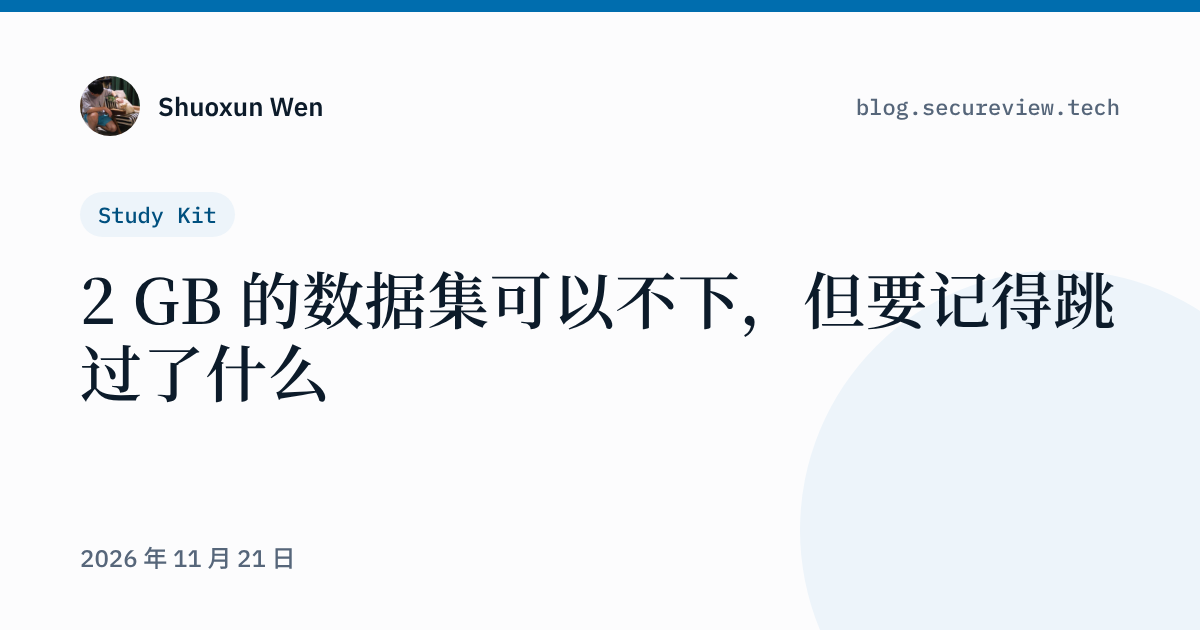
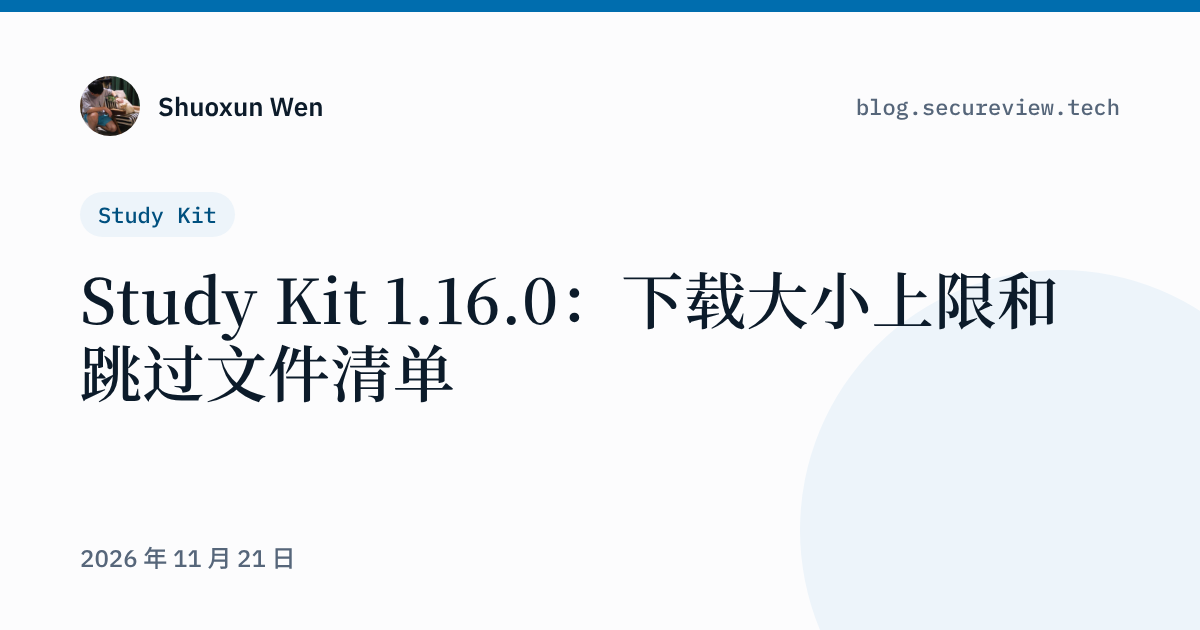
Post: plainer title and wording

Changed region(s): [[0.0617, 0.4222, 0.925, 0.6333]]

diff --git a/_posts/2026-11-21-study-kit-download-choices.md b/_posts/2026-11-21-study-kit-download-choices.md
@@ -2,38 +2,44 @@
 layout: post
 date: 2026-11-21 11:45:00 +0800
 project: Study Kit
-description: "Study Kit 1.16.0 lets you cap file size, leave out kinds of files and skip videos, then shows what it skipped so you can get any of it back with one command."
+description: "Study Kit 1.16.0 adds a file size limit and file type filters. Skipped files can be listed and downloaded with monash skipped."
 ref: study-kit-download-choices
 lang: en
 source_repo: monash-study-kit
 source_checked: 2026-11-21
-title: "Skip the 2 GB dataset, but keep a list of what you skipped"
+title: "Study Kit 1.16.0: download size limit and skipped files list"
 tags: [Python, Moodle, CLI, MCP]
 image: /assets/og/study-kit-download-choices.png
 ---
 
-[Study Kit](https://github.com/Waldo0926/monash-study-kit) copies every file your units put on Moodle to your computer, so your AI app can search and read them. Videos were already left out by default. Everything else came down, including the odd 2 GB dataset or a zip of last year's recordings.
+[Study Kit](https://github.com/Waldo0926/monash-study-kit) syncs your units' Moodle files to your computer so your AI app can search and read them.
 
-The Chrome extension [Monash Moodle Downloader](https://github.com/Zetanegative1/Monash-Moodle-Downloader), added a size limit and type filters in 4.7.0. That made me look at what Study Kit was missing.
+Before this release only videos were skipped by default. Everything else was downloaded, including datasets or zipped recordings of a few GB in some units.
 
-## Choosing what gets downloaded
+The Chrome extension [Monash Moodle Downloader](https://github.com/Zetanegative1/Monash-Moodle-Downloader) added a size limit and type filters in 4.7.0, and I added the same to Study Kit.
 
-1.16.0 adds two settings next to `download_videos`:
+## New settings
 
-- `max_file_mb`, 300 by default. Bigger files become a link with their size
-- `skip_types`, for whole kinds of files: `pdf`, `slides`, `docs`, `sheets`, `archives`, `images`, `audio`, `code`
+Two settings next to `download_videos`:
 
-For one sync only, `monash sync --videos`, `--max-mb 50` or `--skip-types archives` change them without touching your settings.
+- `max_file_mb`: 300 by default. Larger files are saved as a link with their size
+- `skip_types`: kinds of files not to download: `pdf`, `slides`, `docs`, `sheets`, `archives`, `images`, `audio`, `code`
 
-Moodle addresses often say nothing about the file. A resource is `view.php?id=…`, and the real file can sit behind a CloudFront link with no extension. So the check runs on the response headers, before anything is written: the real name from `Content-Disposition`, the type from `Content-Type`, the size from `Content-Length`. If the server sends no length, the download counts bytes and stops at the limit, and the partial file is removed.
+For one sync only, use `monash sync --videos`, `--max-mb 50` or `--skip-types archives`. Settings are not changed.
 
-The same rules now apply inside Moodle folders, which come down as one zip. That fixed an old bug: videos inside a folder zip were extracted even with `download_videos` off.
+Moodle addresses often don't show the file type. A resource is `view.php?id=…`, and the actual file can be a CloudFront link with no extension.
 
-## Skipping is only half of it
+So the check happens after the response headers arrive and before anything is written: the name from `Content-Disposition`, the type from `Content-Type`, the size from `Content-Length`.
 
-A limit is only useful if you can see what it caught. Otherwise you find out the night before the exam that the dataset for the assignment never came down.
+If the server sends no size, the download counts bytes, stops at the limit and deletes the partial file.
 
-So every skip goes into a table, and `monash sync` names the files it skipped for the first time. `monash skipped` lists all of them:
+Moodle folders are downloaded as one zip, and the files inside now follow the same rules. This also fixed an old bug: videos inside a folder zip were extracted even with `download_videos` off.
+
+## Listing and downloading skipped files
+
+Skipped files are stored in a table in the database. At the end of `monash sync` it lists the files skipped for the first time.
+
+`monash skipped` lists all of them:
 
 ```text
 FIT2109
@@ -41,25 +47,25 @@ FIT2109
   [7] Week 09/Project data/raw.zip (too big, 1200 MB)
 ```
 
-(The real output is in Chinese, like the rest of the CLI.)
+The CLI prints this in Chinese; it is translated here.
 
-From there you have two ways back:
+Two ways to download them:
 
-- `monash skipped --get 3` for one or two files. It ignores the limit and checks your free disk space first
-- `monash sync --max-mb 2000` for many. Files you already have are not downloaded again, only the skipped ones are
+- A few files: `monash skipped --get 3`. It ignores the limit and checks free disk space first
+- Many files: `monash sync --max-mb 2000`. Files already downloaded are not downloaded again
 
-You can also just ask your AI app "which files weren't downloaded?" and then "get the dataset one".
+You can also ask your AI app which files were not downloaded and tell it which ones you want.
 
-The numbers are the table's row IDs. Sync updates rows in place instead of deleting and inserting them again, so the number you saw stays the same after the next background sync. That small choice is what makes `--get 3` safe to type a few minutes later.
+The numbers are the table's row IDs. Sync updates existing rows, so the numbers stay the same after a background sync.
 
-## Two bugs found on the way
+## Two fixes
 
-**Partial syncs had no lock.** The full sync takes a lock so the AI app's hourly sync and a terminal sync never run together. `monash sync FIT2109`, `monash export --sync` did not. If both ran on the same unit, one could delete the other's partly downloaded files. All of them, and the new `--get`, now share the lock and say "try again when it's done" when it's busy.
+**No lock when syncing one unit.** A full sync takes a lock so the AI app's background sync and a terminal sync don't run at the same time, but `monash sync FIT2109` and `monash export --sync` didn't. If both synced the same unit, one could delete the other's partly downloaded files. Both commands and `--get` now use the same lock and ask you to try again later if a sync is running.
 
-**Windows reserved names.** A file called `CON.pdf` or `NUL` can't be saved on Windows, so that file failed every sync. Those names now get a `_` in front.
+**Windows reserved names.** Files named `CON.pdf` or `NUL` can't be saved on Windows, so they failed on every sync. They now get a `_` in front.
 
-## What I left out
+## Not done
 
-I looked at downloading in parallel. Folders already come as one zip, and the kit keeps a 0.4 second gap between requests so Moodle never sees a burst. Parallel downloads would need locks around the cookie jar and the database for not much gain, so it stays one at a time.
+I considered parallel downloads. Folders already come as one zip, and the kit waits 0.4 seconds between requests to keep load on Moodle low. Parallel downloads would need locks around the cookie jar and the database, so files are still downloaded one at a time.
 
-Everything above is in the [changelog](https://github.com/Waldo0926/monash-study-kit/blob/main/CHANGELOG.md), and the guide is on [docs.secureview.tech](https://docs.secureview.tech/study-kit/cli/#choose-what-gets-downloaded).
+Details are in the [changelog](https://github.com/Waldo0926/monash-study-kit/blob/main/CHANGELOG.md) and the guide is on [docs.secureview.tech](https://docs.secureview.tech/study-kit/cli/#choose-what-gets-downloaded).

diff --git a/_posts/2026-11-21-study-kit-download-choices-zh.md b/_posts/2026-11-21-study-kit-download-choices-zh.md
@@ -2,44 +2,46 @@
 layout: post
 date: 2026-11-21 11:45:00 +0800
 project: Study Kit
-description: "Study Kit 1.16.0 可以设文件大小上限、整类不下、不下录像，还会列出跳过了哪些，想要的一条命令就能补回来"
+description: "Study Kit 1.16.0 可以设文件大小上限、按类型不下载，跳过的文件用 monash skipped 查看和补下"
 ref: study-kit-download-choices
 lang: zh-Hans
 source_repo: monash-study-kit
 source_checked: 2026-11-21
-title: "2 GB 的数据集可以不下，但要记得跳过了什么"
+title: "Study Kit 1.16.0：下载大小上限和跳过文件清单"
 tags: [Python, Moodle, CLI, MCP]
 image: /assets/og/study-kit-download-choices-zh.png
 ---
 
-[Study Kit](https://github.com/Waldo0926/monash-study-kit) 会把课程放在 Moodle 上的文件都同步到你电脑上，让 AI 软件能搜、能读
+[Study Kit](https://github.com/Waldo0926/monash-study-kit) 会把课程在 Moodle 上的文件同步到电脑上，方便 AI 软件搜索和读取
 
-录像本来就默认不下，其他的全都会下，包括偶尔出现的 2 GB 数据集，或者一整包去年的录播
+之前只有录像默认不下载，其他文件都会下，有的课会放几个 GB 的数据集或者打包的录播
 
-Chrome 插件 [Monash Moodle Downloader](https://github.com/Zetanegative1/Monash-Moodle-Downloader) 在 4.7.0 里加了大小上限和类型过滤，我顺着看了一下 Study Kit 还缺什么
+Chrome 插件 [Monash Moodle Downloader](https://github.com/Zetanegative1/Monash-Moodle-Downloader) 4.7.0 加了大小上限和类型过滤，我参考它给 Study Kit 也加上了
 
-## 选择下载哪些文件
+## 新的设置
 
-1.16.0 在 `download_videos` 旁边加了两个设置：
+在 `download_videos` 之外加了两个设置：
 
-- `max_file_mb`，默认 300，超过的文件只记成链接，写上大小
-- `skip_types`，整类不下：`pdf`、`slides`、`docs`、`sheets`、`archives`、`images`、`audio`、`code`
+- `max_file_mb`：默认 300，超过的文件不下载，记成链接并写上大小
+- `skip_types`：按类型不下载，可选 `pdf`、`slides`、`docs`、`sheets`、`archives`、`images`、`audio`、`code`
 
-只想这一次不一样的话，`monash sync --videos`、`--max-mb 50`、`--skip-types archives` 都不会改设置
+只想这一次不同，可以用 `monash sync --videos`、`--max-mb 50`、`--skip-types archives`，不会改设置
 
-Moodle 的地址很多时候看不出是什么文件，资源是 `view.php?id=…`，真正的文件可能在一个没有扩展名的 CloudFront 链接后面
+Moodle 的地址经常看不出文件类型，比如资源是 `view.php?id=…`，真正的文件可能是一个没有扩展名的 CloudFront 链接
 
-所以判断放在拿到响应头之后、写文件之前：真名字看 `Content-Disposition`，类型看 `Content-Type`，大小看 `Content-Length`
+所以判断是在收到响应头之后、写文件之前做的：文件名看 `Content-Disposition`，类型看 `Content-Type`，大小看 `Content-Length`
 
-服务器不给大小的话，就边下边数，超了马上停，半个文件也会删掉
+如果服务器没给大小，就一边下载一边计数，超过上限就停止，并删掉下了一半的文件
 
-Moodle 文件夹是整包 zip 下来的，现在里面的文件也按同样的规则处理，顺便修了一个旧问题：以前关了 `download_videos`，文件夹 zip 里的录像还是会被解压出来
+Moodle 文件夹是整个 zip 下载的，现在 zip 里的文件也按同样规则处理
 
-## 只会跳过还不够
+这里顺便修了一个问题：以前关掉 `download_videos` 后，文件夹 zip 里的录像还是会被解压出来
 
-上限有用的前提是你看得到它拦了什么，不然等到考试前一晚才发现作业要的数据集根本没下下来
+## 查看和补下跳过的文件
 
-所以每个跳过的文件都会记进一张表，`monash sync` 完会列出这次新跳过的，`monash skipped` 列出全部：
+跳过的文件会记到数据库的一张表里，`monash sync` 结束时会列出这次新跳过的文件
+
+`monash skipped` 列出全部：
 
 ```text
 FIT2109
@@ -47,31 +49,29 @@ FIT2109
   [7] Week 09/Project data/raw.zip（太大，1200 MB）
 ```
 
-然后有两种补法：
+补下有两种方式：
 
-- 只要一两个就 `monash skipped --get 3`，不受上限限制，开始前会先看硬盘空间够不够
-- 要很多个就 `monash sync --max-mb 2000`，已经下好的不会重下，只补之前跳过的
+- 少量文件用 `monash skipped --get 3`，不受上限限制，下载前会检查硬盘剩余空间
+- 大量文件用 `monash sync --max-mb 2000` 调大上限再同步一次，已经下好的文件不会重复下载
 
-也可以直接问 AI 软件“有哪些文件没下载？”，再说“把 dataset 那个下下来”
+在 AI 软件里也可以问“有哪些文件没下载”，然后告诉它要哪几个
 
-编号就是表里的行号，同步时是原地更新，不是删了重插，所以后台又同步一次之后，你刚看到的编号还是同一个
+编号是表的行号，同步时是更新原有的行，所以后台同步之后编号不会变
 
-正是这个小决定，让你过几分钟再输 `--get 3` 也不会下错文件
+## 修复的两个问题
 
-## 顺手发现的两个问题
+**单独同步一门课时没有加锁**：完整同步会加锁，避免 AI 软件的后台同步和终端里的同步同时运行，但 `monash sync FIT2109` 和 `monash export --sync` 没有加
 
-**单独同步一门课没有加锁**：完整同步会拿一把锁，保证 AI 软件每小时的后台同步和终端里的同步不会一起跑，但 `monash sync FIT2109` 和 `monash export --sync` 没拿
+两者同时同步同一门课时，一边可能删掉另一边正在下载的临时文件
 
-两边同时同步同一门课的话，一边可能把另一边下到一半的文件删掉
+现在这两个命令和 `--get` 都使用同一个锁，后台正在同步时会提示稍后再试
 
-现在它们和新的 `--get` 都用同一把锁，后台正在同步就提示你等它跑完再试
+**Windows 保留文件名**：`CON.pdf`、`NUL` 这类文件名在 Windows 上无法保存，以前这个文件每次同步都会失败，现在会在文件名前加 `_`
 
-**Windows 保留的文件名**：叫 `CON.pdf` 或 `NUL` 的文件在 Windows 上根本存不了，这个文件每次同步都会失败，现在这类名字前面会加个 `_`
+## 没有做的
 
-## 没做的
+我考虑过并发下载，但文件夹本来就是一个 zip，而且工具在请求之间固定间隔 0.4 秒，避免给 Moodle 造成压力
 
-我考虑过并发下载，但文件夹本来就是一个 zip，工具也故意让请求之间隔 0.4 秒，不给 Moodle 突发的压力
+并发下载需要给 cookie 和数据库加锁，收益不大，所以还是逐个下载
 
-改成并发要给 cookie 和数据库加锁，收益不大，所以还是一个一个下
-
-以上都能在[更新日志](https://github.com/Waldo0926/monash-study-kit/blob/main/CHANGELOG.md)里核对，使用说明在 [docs.secureview.tech](https://docs.secureview.tech/zh-cn/study-kit/cli/#选择下载哪些文件)
+具体改动见[更新日志](https://github.com/Waldo0926/monash-study-kit/blob/main/CHANGELOG.md)，使用说明见 [docs.secureview.tech](https://docs.secureview.tech/zh-cn/study-kit/cli/#选择下载哪些文件)
